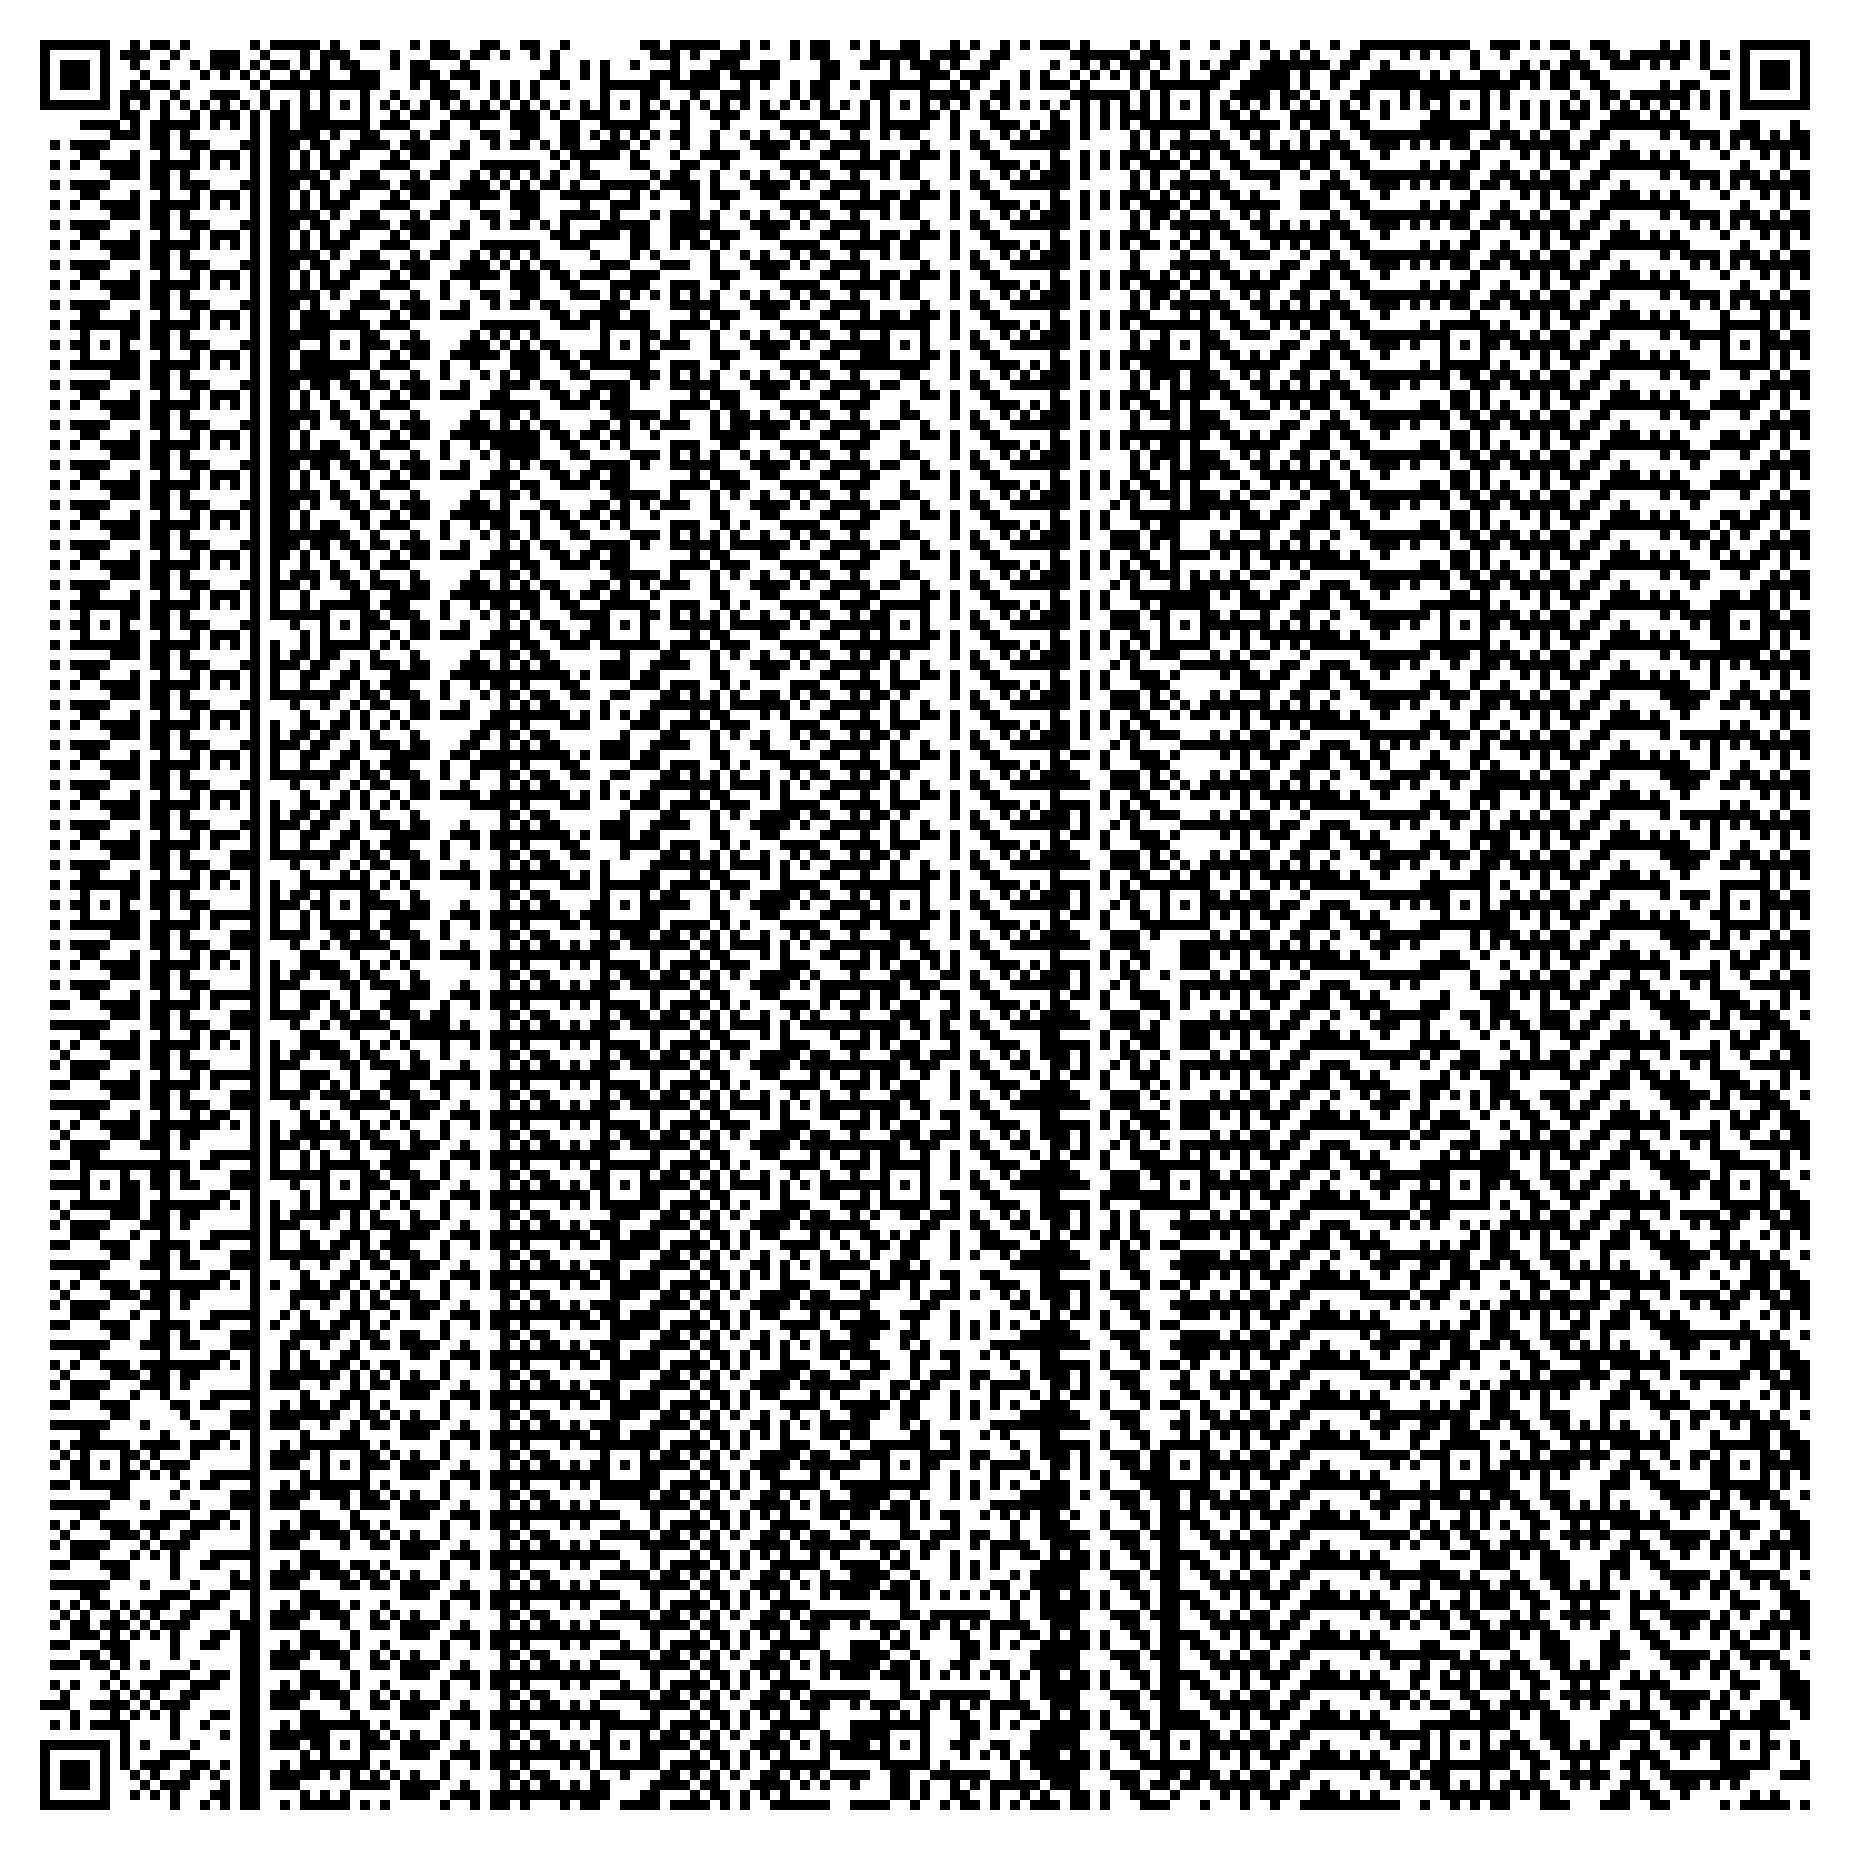
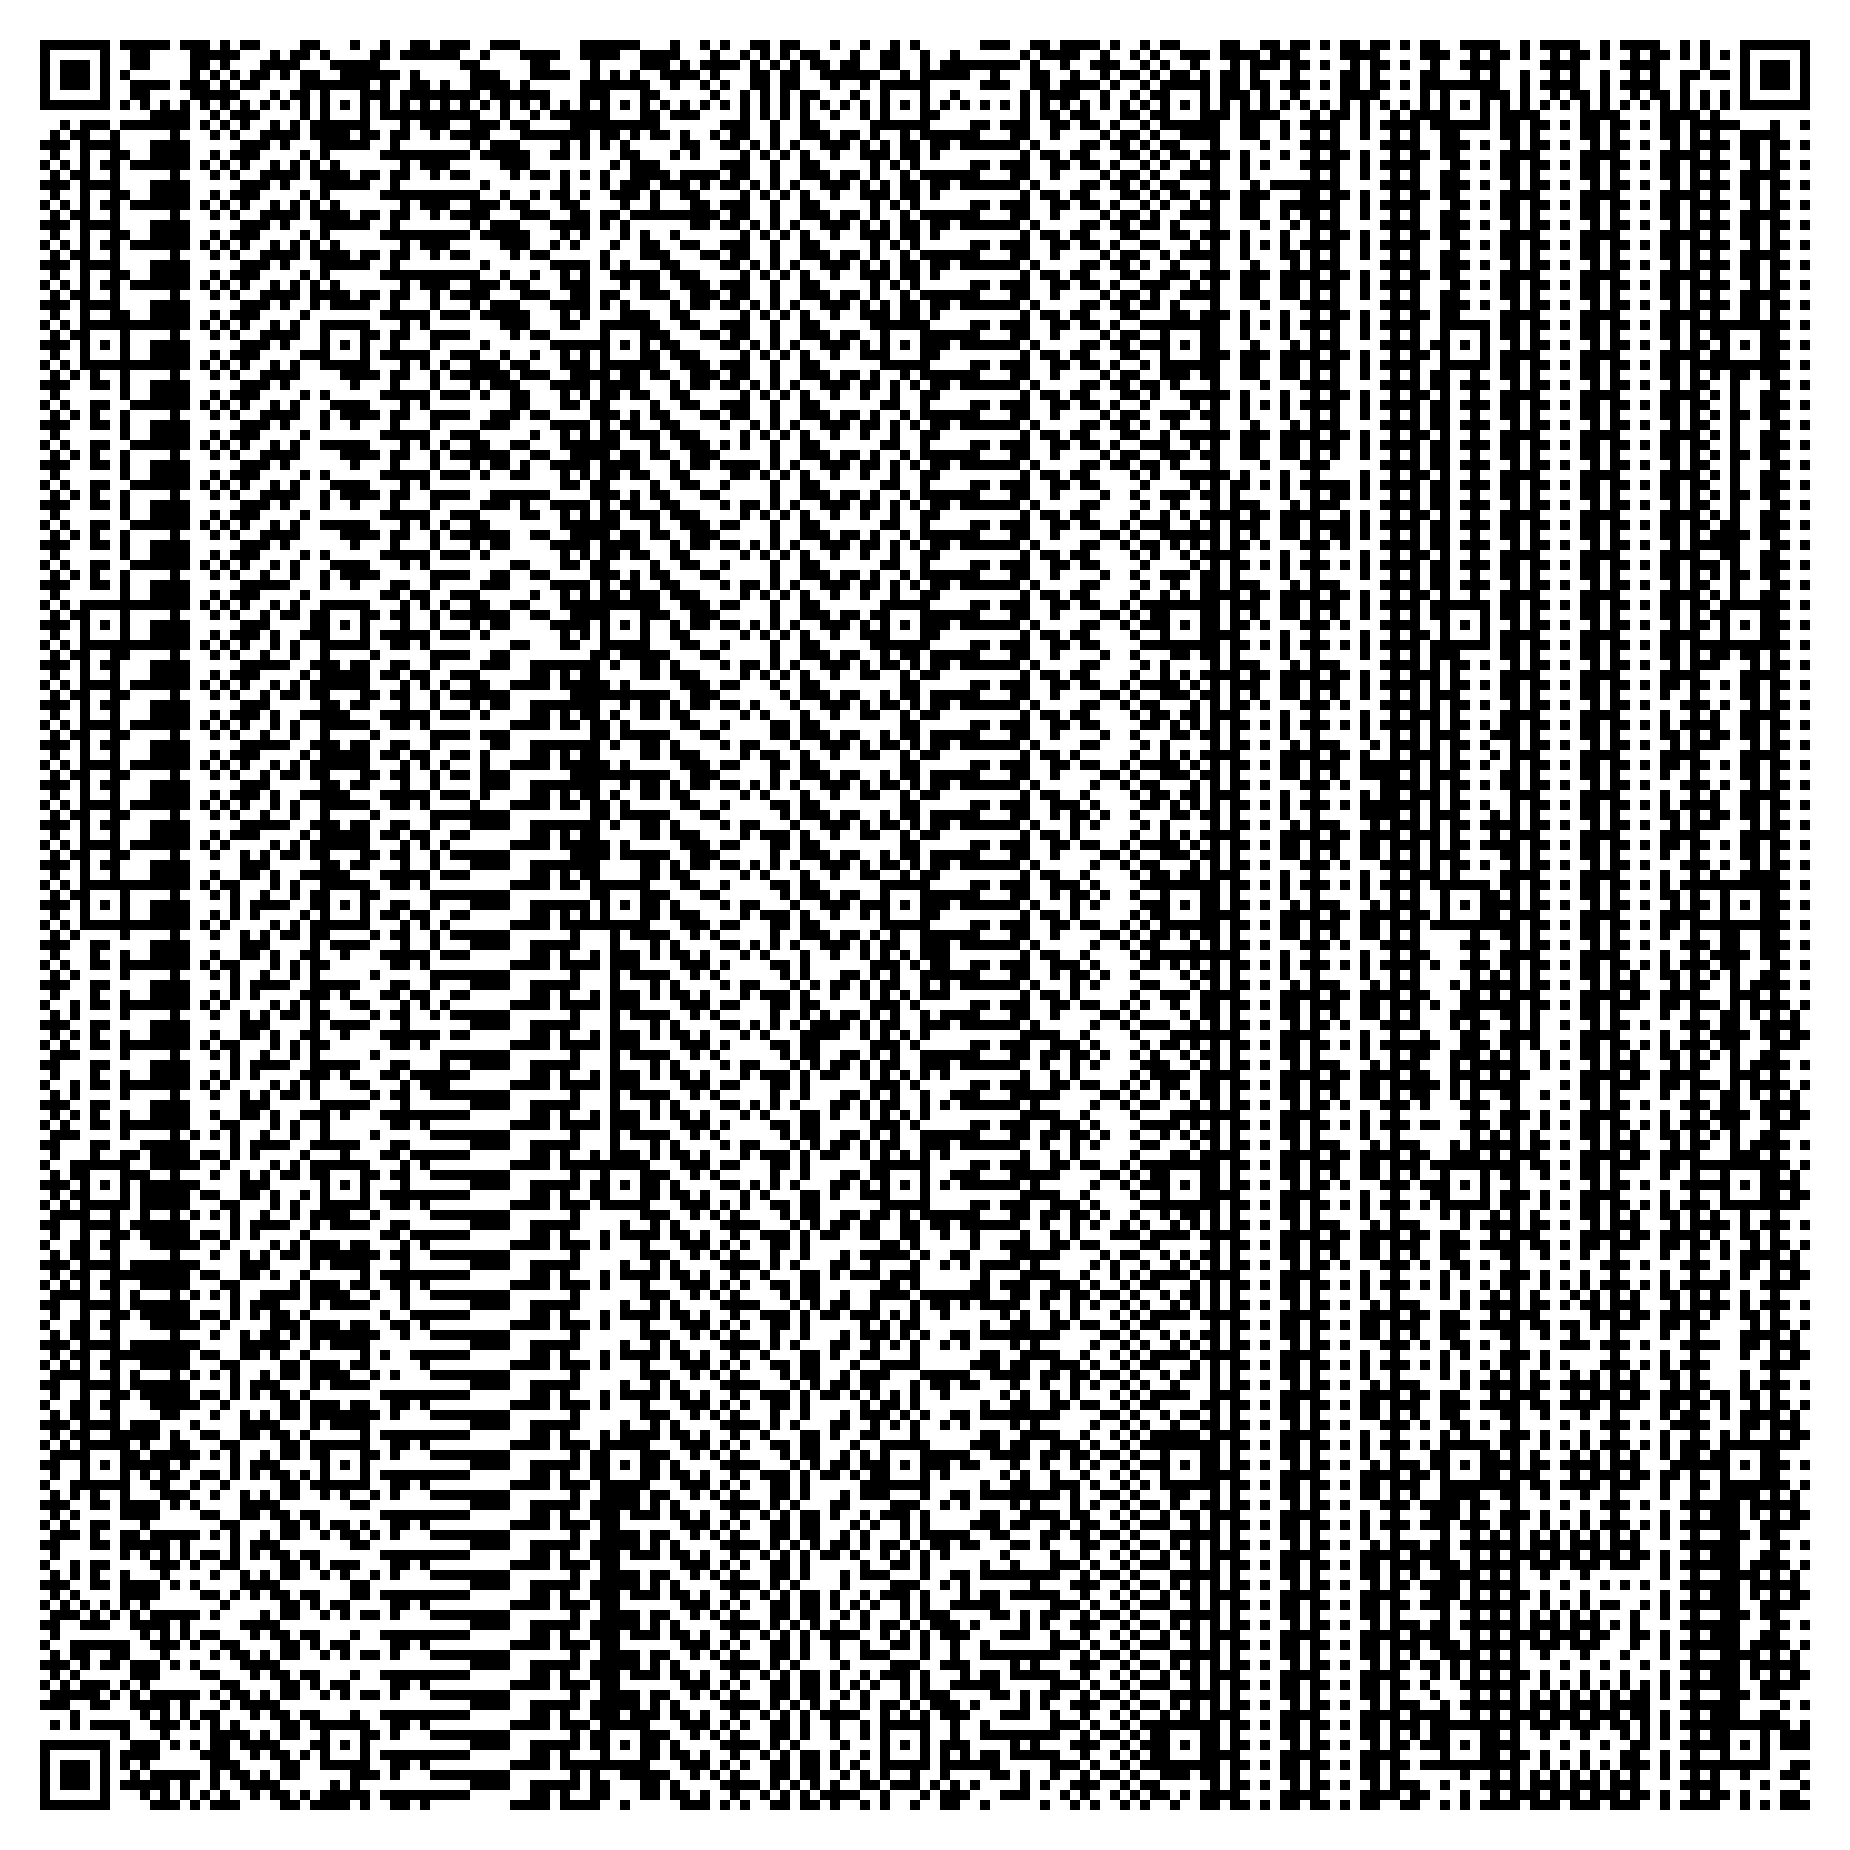
1.0.0 Source Code

diff --git a/qr-long.py b/qr-long.py
@@ -1,7 +1,7 @@
 import qrcode
 
 # Set the data and segmentation options
-data = "https://www.example.com"
+data = "https://miguelgargallo.com"
 version = 40
 num_segments = 4
 

diff --git a/qr-short.py b/qr-short.py
@@ -1,6 +1,6 @@
 import qrcode
 
-link = "https://www.example.com"
+link = "https://miguelgargallo.com"
 
 img = qrcode.make(link)
 
